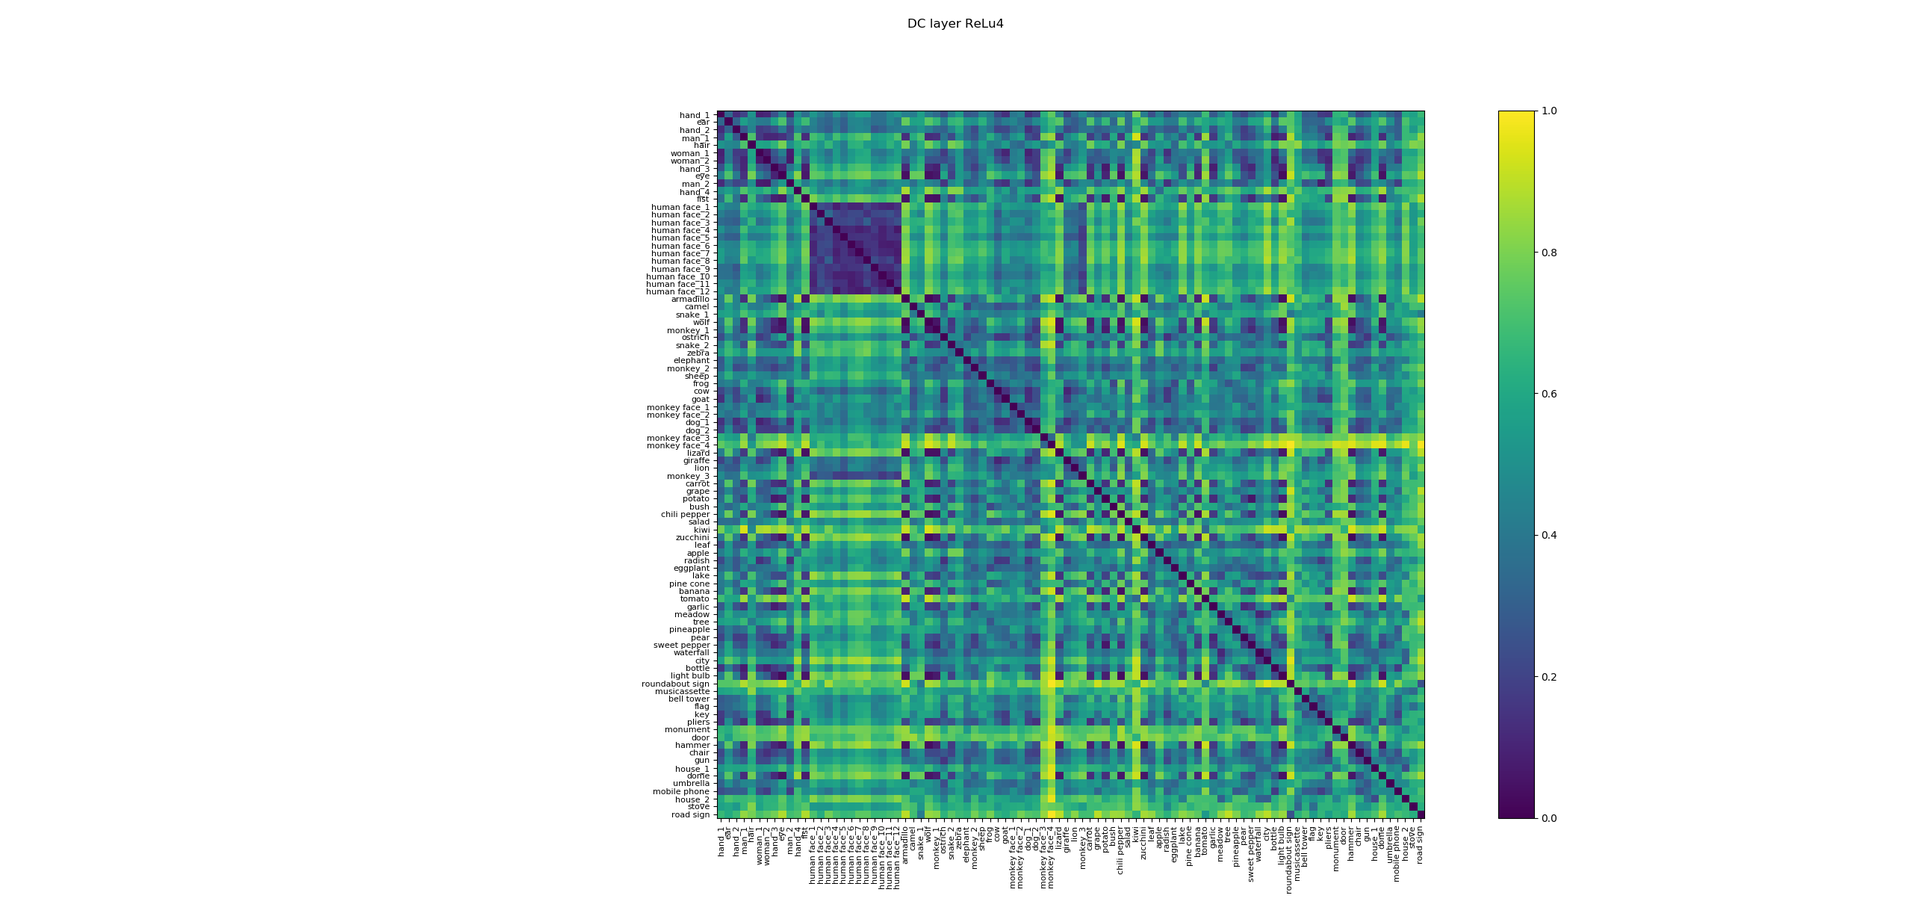
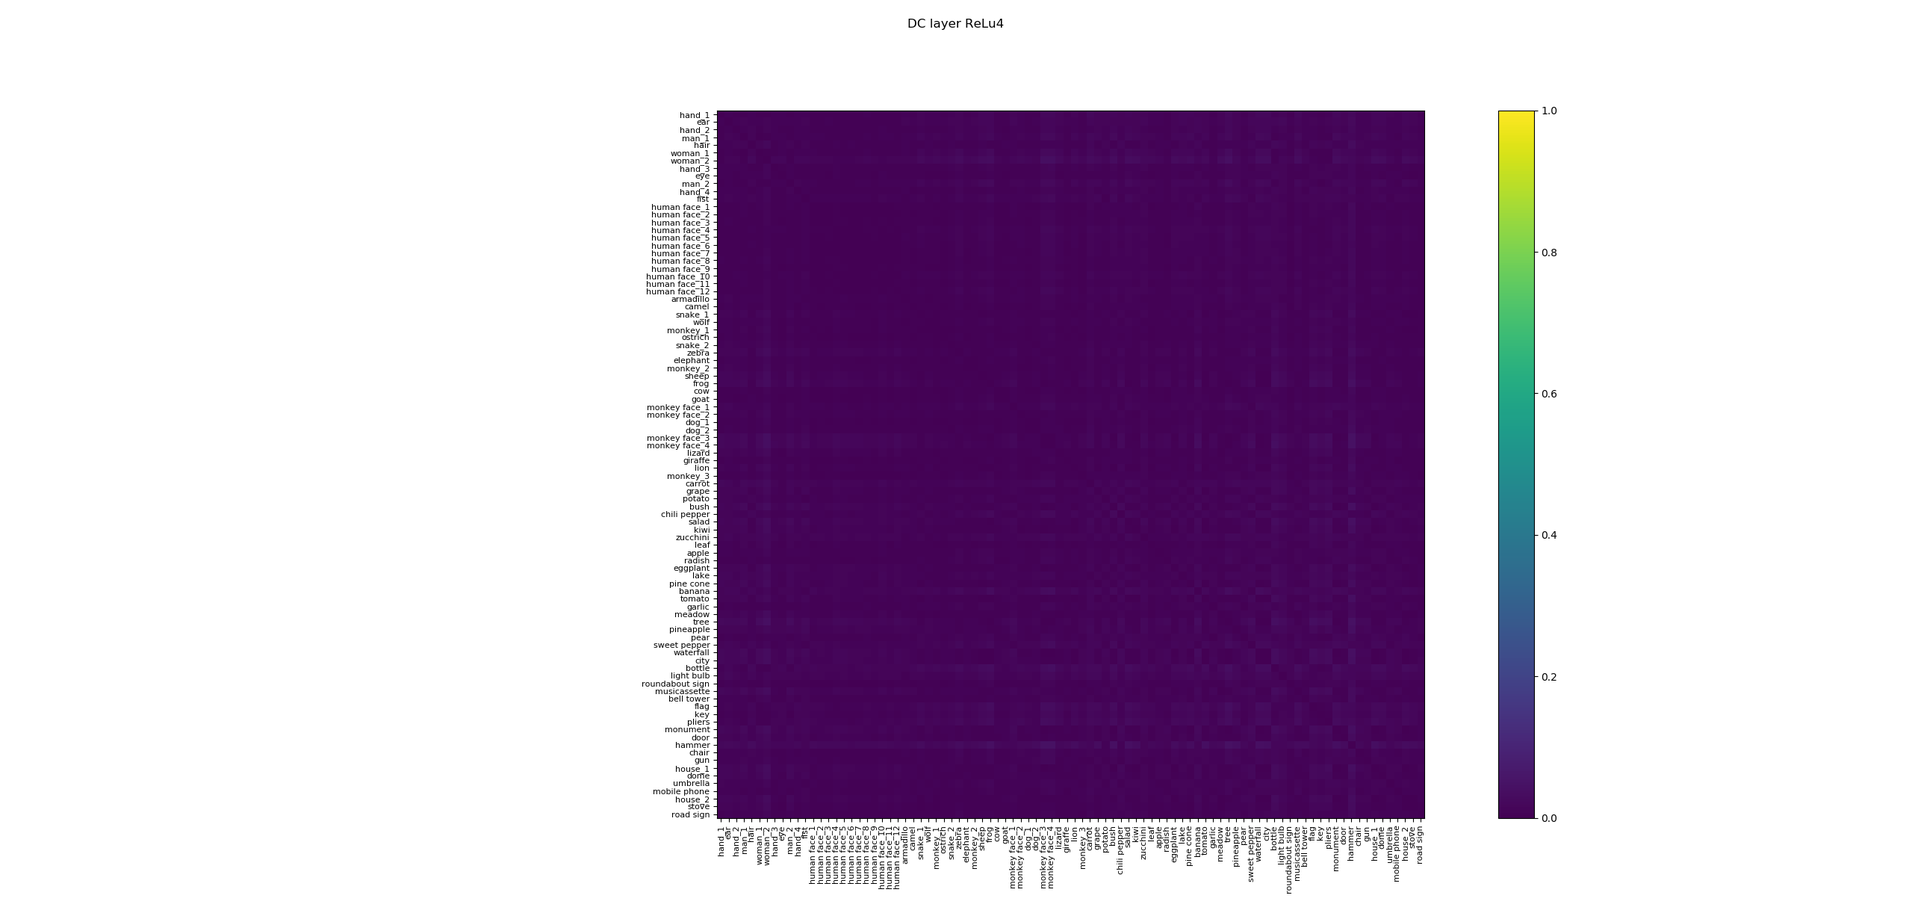
add untrained test and updated niko's synsets dict and the w2v function

Changed region(s): [[0.375, 0.1236, 0.75, 0.8959]]

diff --git a/chicy118_img_dictionaries.py b/chicy118_img_dictionaries.py
@@ -1,6 +1,8 @@
 import pickle
 import os
-from gensim.models import KeyedVectors
+import nltk
+nltk.download('wordnet')
+from nltk.corpus import wordnet as wn
 
 ## define images names and synsets
 img_names_cichy118 = {'001':'orange','002':'bench','003':'remote','004':'car','005':'stove','006':'man','007':'table','008':'apple','009':'wagon','010':'dog','011':'fox','012':'bus','013':'train','014':'ipod',
@@ -30,25 +32,46 @@ img_synsets_cichy118 = {'001':'orange.n.01','002':'bench.n.01','003':'remote_con
                 '107':'bottle.n.01','108':'pan.n.01','109':'weight.n.02','110':'ball.n.01','111':'sweet_pepper.n.02','112':'corkscrew.n.01','113':'tennis_ball.n.01','114':'mouse.n.04','115':'mug.n.04',
                 '116':'keyboard.n.01','117':'can_opener.n.01','118':'fan.n.01'}
 
+img_w2v_cichy118 = {'001':'orange','002':'bench','003':'remote','004':'car','005':'stove','006':'man','007':'table','008':'apple','009':'wagon','010':'dog','011':'fox','012':'bus','013':'train','014':'ipod',
+                '015':'pizza','016':'bird','017':'horse','018':'laptop','019':'bear','020':'basketball ball','021':'piano','022':'guitar','023':'baseball ball','024':'seal','025':'chair','026':'orangutan','027':'bowl',
+                '028':'tiger','029':'moped','030':'tie','031':'printer','032':'lion','033':'neil','034':'drum','035':'bow','036':'fig','037':'butterfly','038':'lamp','039':'banana','040':'sofa',
+                '041':'lemon','042':'hoover','043':'hammer','044':'sunglasses','045':'bike','046':'rabbit','047':'beaker','048':'elephant','049':'microwave','050':'volleyball ball','051':'strawberry',
+                '052':'sheep','053':'frog','054':'washing machine','055':'fridge','056':'turtle','057':'ax','058':'helmet','059':'camel','060':'lipstick','061':'airplane','062':'dishwasher','063':'burger',
+                '064':'backpack','065':'purse','066':'hamster','067':'microphone','068':'mushroom','069':'cow','070':'violin','071':'orca','072':'cucumber','073':'thermometer','074':'pineapple','075':'harp',
+                '076':'squirrel','077':'notebook','078':'trumpet','079':'plastic bag','080':'jug','081':'snail','082':'toaster','083':'banjo','084':'screwdriver','085':'snowmobile','086':'pig',
+                '087':'pomegranate','088':'accordion','089':'racket','090':'bagel','091':'trombone','092':'syringe','093':'fish','094':'hair_dryer','095':'starfish','096':'hotdog','097':'ladybug',
+                '098':'aircraft carrier','099':'jellyfish','100':'coffee maker','101':'television','102':'pretzel','103':'artichoke','104':'golf ball','105':'alarm clock','106':'traffic light',
+                '107':'bottle','108':'pan','109':'weights','110':'football ball','111':'sweet pepper','112':'corkscrew','113':'tennis ball','114':'computer mouse','115':'mug','116':'keyboard',
+                '117':'can opener','118':'fan'}
 
 
 img_names_niko92 = {'01':'hand_1','02':'ear','03':'hand_2','04':'man_1','05':'hair','06':'woman_1','07':'woman_2','08':'hand_3','09':'eye','10':'man_2','11':'hand_4','12':'fist','13':'human face_1','14':'human face_2',
                 '15':'human face_3','16':'human face_4','17':'human face_5','18':'human face_6','19':'human face_7','20':'human face_8','21':'human face_9','22':'human face_10','23':'human face_11','24':'human face_12',
                 '25':'armadillo','26':'camel','27':'snake_1','28':'wolf','29':'monkey_1','30':'ostrich','31':'snake_2','32':'zebra','33':'elephant','34':'monkey_2','35':'sheep','36':'frog','37':'cow',
                 '38':'goat','39':'monkey face_1','40':'monkey face_2','41':'dog_1','42':'dog_2','43':'monkey face_3','44':'monkey face_4','45':'lizard','46':'giraffe','47':'lion','48':'monkey_3','49':'carrot',
-                '50':'grape','51':'potato','52':'bush','53':'chili pepper','54':'salad','55':'kiwi','56':'zucchini','57':'leaf','58':'apple','59':'radish','60':'eggplant','61':'lake','62':'pine cone',
-                '63':'banana','64':'tomato','65':'garlic','66':'meadow','67':'tree','68':'pineapple','69':'pear','70':'sweet pepper','71':'waterfall','72':'city','73':'bottle','74':'light bulb',
-                '75':'roundabout sign','76':'musicassette','77':'bell tower','78':'flag','79':'key','80':'pliers','81':'monument','82':'door','83':'hammer','84':'chair','85':'gun','86':'house_1',
+                '50':'grape','51':'potato','52':'bush','53':'jalapeno','54':'lettuce','55':'kiwi','56':'zucchini','57':'leaf','58':'apple','59':'radish','60':'eggplant','61':'lake','62':'pine cone',
+                '63':'banana','64':'tomato','65':'garlic','66':'hayfield','67':'tree','68':'pineapple','69':'pear','70':'sweet pepper','71':'waterfall','72':'city','73':'bottle','74':'light bulb',
+                '75':'roundabout sign','76':'musicassette','77':'belfry','78':'flag','79':'key','80':'pliers','81':'monument','82':'door','83':'hammer','84':'chair','85':'gun','86':'house_1',
                 '87':'dome','88':'umbrella','89':'mobile phone','90':'house_2','91':'stove','92':'road sign'}
 
-img_synsets_niko92 = {'001':'hand','002':'ear','003':'hand','004':'man','005':'hair','006':'woman','007':'woman','008':'hand','009':'eye','010':'man','011':'hand','012':'fist','013':'human face','014':'human face',
-                '015':'human face','016':'human face','017':'human face','018':'human face','019':'human face','020':'human face','021':'human face','022':'human face','023':'human face','024':'human face',
-                '025':'armadillo','026':'camel','027':'snake','028':'wolf','029':'monkey','030':'ostrich','031':'snake','032':'zebra','033':'elephant','034':'monkey','035':'sheep','036':'frog','037':'cow',
-                '038':'goat','039':'monkey face','040':'monkey face','041':'dog','042':'dog','043':'monkey face','044':'monkey face','045':'lizard','046':'giraffe','047':'lion','048':'monkey','049':'carrot',
-                '050':'grape','051':'potato','052':'bush','053':'chili pepper','054':'salad','055':'kiwi','056':'zucchini','057':'leaf','058':'apple','059':'radish','060':'eggplant','061':'lake','062':'pine cone',
-                '063':'banana','064':'tomato','065':'garlic','066':'meadow','067':'tree','068':'pineapple','069':'pear','070':'sweet pepper','071':'waterfall','072':'city','073':'bottle','074':'light bulb',
-                '075':'roundabout sign','076':'musicassette','077':'bell tower','078':'flag','079':'key','080':'pliers','081':'monument','082':'door','083':'hammer','084':'chair','085':'gun','086':'house',
-                '087':'dome','088':'umbrella','089':'mobile phone','090':'house','091':'stove','092':'road sign'}
+img_synsets_niko92 = {'01':'hand.n.01','02':'ear.n.03','03':'hand.n.01','04':'man.n.01','05':'hair.n.01','06':'woman.n.01','07':'woman.n.01','08':'hand.n.01','09':'eye.n.01','10':'man.n.01','11':'hand.n.01',
+                '12':'fist.n.01','13':'face.n.01','14':'face.n.01','15':'face.n.01','16':'face.n.01','17':'face.n.01','18':'face.n.01','19':'face.n.01','20':'face.n.01','21':'face.n.01','22':'face.n.01',
+                '23':'face.n.01','24':'face.n.01','25':'armadillo.n.01','26':'camel.n.01','27':'snake.n.01','28':'wolf.n.01','29':'monkey.n.01','30':'ostrich.n.02','31':'snake.n.01','32':'zebra.n.01',
+                '33':'elephant.n.01','34':'monkey.n.01','35':'sheep.n.01','36':'frog.n.01','37':'cow.n.01','38':'goat.n.01','39':'monkey.n.01','40':'monkey.n.01','41':'dog.n.01','42':'dog.n.01','43':'monkey.n.01',
+                '44':'monkey.n.01','45':'lizard.n.01','46':'giraffe.n.01','47':'lion.n.01','48':'monkey.n.01','49':'carrot.n.01','50':'grape.n.01','51':'potato.n.01','52':'shrub.n.01','53':'jalapeno.n.02',
+                '54':'lettuce.n.02','55':'chinese_gooseberry.n.01','56':'zucchini.n.01','57':'leaf.n.01','58':'apple.n.01','59':'radish.n.01','60':'eggplant.n.01','61':'lake.n.01','62':'pinecone.n.01',
+                '63':'banana.n.02','64':'tomato.n.01','65':'garlic.n.01','66':'hayfield.n.01','67':'tree.n.01','68':'pineapple.n.01','69':'pear.n.01','70':'sweet_pepper.n.02','71':'waterfall.n.01','72':'city.n.01',
+                '73':'bottle.n.01','74':'lightbulb.n.01','75':'signpost.n.01','76':'cassette.n.01','77':'belfry.n.01','78':'flag.n.01','79':'key.n.01','80':'pliers.n.01','81':'memorial.n.03','82':'door.n.01',
+                '83':'hammer.n.02','84':'chair.n.01','85':'gun.n.01','86':'house.n.01','87':'dome.n.01','88':'umbrella.n.01','89':'cellphone.n.01','90':'house.n.01','91':'stove.n.01','92':'signpost.n.01'}
+
+img_w2v_niko92 = {'01':'hand','02':'ear','03':'hand','04':'man','05':'hair','06':'woman','07':'woman','08':'hand','09':'eye','10':'man','11':'hand','12':'fist','13':'human face','14':'human face',
+                '15':'human face','16':'human face','17':'human face','18':'human face','19':'human face','20':'human face','21':'human face','22':'human face','23':'human face','24':'human face',
+                '25':'armadillo','26':'camel','27':'snake','28':'wolf','29':'monkey','30':'ostrich','31':'snake','32':'zebra','33':'elephant','34':'monkey','35':'sheep','36':'frog','37':'cow',
+                '38':'goat','39':'monkey face','40':'monkey face','41':'dog','42':'dog','43':'monkey face','44':'monkey face','45':'lizard','46':'giraffe','47':'lion','48':'monkey','49':'carrot',
+                '50':'grape','51':'potato','52':'bush','53':'jalapeno','54':'lettuce','55':'kiwi','56':'zucchini','57':'leaf','58':'apple','59':'radish','60':'eggplant','61':'lake','62':'pine cone',
+                '63':'banana','64':'tomato','65':'garlic','66':'hayfield','67':'tree','68':'pineapple','69':'pear','70':'sweet pepper','71':'waterfall','72':'city','73':'bottle','74':'light bulb',
+                '75':'roundabout sign','76':'musicassette','77':'belfry','78':'flag','79':'key','80':'pliers','81':'monument','82':'door','83':'hammer','84':'chair','85':'gun','86':'house',
+                '87':'dome','88':'umbrella','89':'mobile phone','90':'house','91':'stove','92':'road sign'}
 
 
 
@@ -56,8 +79,12 @@ with open('/home/CUSACKLAB/annatruzzi/cichy2016/cichy118_img_names.pickle', 'wb'
     pickle.dump(img_names_cichy118, handle)
 with open('/home/CUSACKLAB/annatruzzi/cichy2016/cichy118_img_synsets.pickle', 'wb') as handle:
     pickle.dump(img_synsets_cichy118, handle)
+with open('/home/CUSACKLAB/annatruzzi/cichy2016/cichy118_img_w2v.pickle', 'wb') as handle:
+    pickle.dump(img_w2v_cichy118, handle)
 
 with open('/home/CUSACKLAB/annatruzzi/cichy2016/niko92_img_names.pickle', 'wb') as handle:
     pickle.dump(img_names_niko92, handle)
 with open('/home/CUSACKLAB/annatruzzi/cichy2016/niko92_img_synsets.pickle', 'wb') as handle:
     pickle.dump(img_synsets_niko92, handle)
+with open('/home/CUSACKLAB/annatruzzi/cichy2016/niko92_img_w2v.pickle', 'wb') as handle:
+    pickle.dump(img_w2v_niko92, handle)

diff --git a/cichy118_evaluate_dc_fmri.py b/cichy118_evaluate_dc_fmri.py
@@ -19,8 +19,7 @@ import hdf5storage
 from scipy import stats
 from scipy.spatial.distance import squareform
 import collections
-from gensim.models import KeyedVectors
-
+import re
 
 ## load activations dictionary 
 def load_dict(path):
@@ -41,7 +40,7 @@ def loadmat(matfile):
     else:
         return {name: np.transpose(f.get(name)) for name in f.keys()}
 
-def lch_order(keys,ordered_names_dict,syn_dict):
+def lch_order(keys,ordered_names_dict,syn_dict,w2v_dict):
     ## get LCH distance for the images from the respective synsets and order them by hierarchical clustering + get respective (comprehensible) labels 
     labels_dict = [label.split('/')[-1] for label in keys]
     synsets_list = []
@@ -86,18 +85,19 @@ def lch_order(keys,ordered_names_dict,syn_dict):
     return orderedNames
 
 
-def presentation_order(keys,ordered_names_dict,syn_dict):
+def presentation_order(keys,ordered_names_dict,syn_dict,w2v_dict):
     orderedNames = []
     for item in sorted(ordered_names_dict.items()):
         orderedNames.append(item[1])
     return orderedNames
 
 
-def w2v_order(keys,ordered_names_dict,syn_dict):
+def w2v_order(keys,ordered_names_dict,syn_dict,w2v_dict):
     orderedNames = []
     model = KeyedVectors.load_word2vec_format('/home/CUSACKLAB/annatruzzi/GoogleNews-vectors-negative300.bin', binary=True, limit=500000)
     w2v = []
-    for value in ordered_names_dict.values():
+    for key in ordered_names_dict.keys():
+        value = w2v_dict[key]
         if len(value.split(' ')) == 1:
             w2v.append(model[value])
         else:
@@ -116,7 +116,7 @@ def w2v_order(keys,ordered_names_dict,syn_dict):
         leaf_font_size=9,
         distance_sort='ascending',
         show_leaf_counts=True)
-    #plt.show()
+    plt.show()
     orderedNames = den['ivl']
 
     return orderedNames
@@ -163,15 +163,25 @@ def rdm_plot(rdm, vmin, vmax, labels, main, outname):
     plt.close(fig)
 
 
-def main(layers,act,img_names,img_synsets,fmri_path, network_used, comparison_with, order_method):
-    act = load_dict(act)
-    img_names = load_dict(img_names)
+def main(layers, network_used, comparison_with, order_method,training):
+    act_pth = '/home/CUSACKLAB/annatruzzi/cichy2016/' + comparison_with + '_activations_'+ training + '.pickle'
+    img_names_pth = '/home/CUSACKLAB/annatruzzi/cichy2016/' + comparison_with + '_img_names.pickle'
+    img_synsets_pth = '/home/CUSACKLAB/annatruzzi/cichy2016/' + comparison_with + '_img_synsets.pickle'
+    img_w2v_pth = '/home/CUSACKLAB/annatruzzi/cichy2016/' + comparison_with + '_img_w2v.pickle'
+
+    number = (re.findall('\d+', comparison_with))
+    fmri_pth = '/home/CUSACKLAB/annatruzzi/cichy2016/algonautsChallenge2019/Training_Data/'+ number[0]+'_Image_Set/target_fmri.mat'
+
+    act = load_dict(act_pth)
+    img_names = load_dict(img_names_pth)
     img_names = reorder_od(img_names, sorted(img_names.keys()))
-    img_synsets = load_dict(img_synsets)
+    img_synsets = load_dict(img_synsets_pth)
     img_synsets = reorder_od(img_synsets, sorted(img_synsets.keys()))
+    img_w2v = load_dict(img_w2v_pth)
+    img_w2v = reorder_od(img_w2v, sorted(img_w2v.keys()))
 
     #############   get list of lch ordered activation keys starting from labels_img and img_names dict
-    order_function = order_method + '_order(act.keys(),img_names,img_synsets)'
+    order_function = order_method + '_order(act.keys(),img_names,img_synsets,img_w2v)'
     orderedNames = eval(order_function)
     orderedKeys = []
     for name in orderedNames:
@@ -199,7 +209,7 @@ def main(layers,act,img_names,img_synsets,fmri_path, network_used, comparison_wi
 
 
     ###### load fmri rdms and re-order them by lch similarity
-    fmri_mat = loadmat(fmri_path)
+    fmri_mat = loadmat(fmri_pth)
     EVC = np.mean(fmri_mat['EVC_RDMs'],axis = 0)
     IT = np.mean(fmri_mat['IT_RDMs'], axis = 0)
 
@@ -213,14 +223,17 @@ def main(layers,act,img_names,img_synsets,fmri_path, network_used, comparison_wi
         cmb_mri_IT = zip(cmb_mri, IT_tovector)
         cmb_orderedNames = list(combinations(orderedNames,2))
         for combination in cmb_orderedNames:
+            print combination
             for item_EVC in cmb_mri_EVC:
                 if (item_EVC[0][0] == combination[0] and item_EVC[0][1] == combination[1]) or (item_EVC[0][0] == combination[1] and item_EVC[0][1] == combination[0]):
                     EVC_ordered.append(item_EVC[1])
+                    print item_EVC
             for item_IT in cmb_mri_IT:
                 if (item_EVC[0][0] == combination[0] and item_EVC[0][1] == combination[1]) or (item_EVC[0][0] == combination[1] and item_EVC[0][1] == combination[0]):
                     IT_ordered.append(item_IT[1])
-        EVC = squareform(np.asarray(EVC))
-        IT = squareform(np.asarray(IT))
+                    print item_IT
+        EVC = squareform(np.asarray(EVC),force='tovector', checks=False)
+        IT = squareform(np.asarray(IT),force='tovector', checks=False)
     
     fmri_rdm_dict = {'EVC_RDMs' : EVC, 'IT_RDMs' : IT}
 
@@ -261,18 +274,7 @@ def main(layers,act,img_names,img_synsets,fmri_path, network_used, comparison_wi
 
 
 if __name__ == '__main__':
+
     layers_dc = ['ReLu1', 'ReLu2', 'ReLu3', 'ReLu4', 'ReLu5']
-
-    act_dc_cichy118 = '/home/CUSACKLAB/annatruzzi/cichy2016/cichy118_activations.pickle'
-    img_names_cichy118 = '/home/CUSACKLAB/annatruzzi/cichy2016/cichy118_img_names.pickle'
-    img_synsets_cichy118 = '/home/CUSACKLAB/annatruzzi/cichy2016/cichy118_img_synsets.pickle'
-    fmri_cichy118 = '/home/CUSACKLAB/annatruzzi/cichy2016/algonautsChallenge2019/Training_Data/118_Image_Set/target_fmri.mat'
-
-    act_dc_niko92 = '/home/CUSACKLAB/annatruzzi/cichy2016/niko92_activations.pickle'
-    img_names_niko92 = '/home/CUSACKLAB/annatruzzi/cichy2016/niko92_img_names.pickle'   
-    img_synsets_niko92 = '/home/CUSACKLAB/annatruzzi/cichy2016/niko92_img_synsets.pickle'  
-    fmri_niko92 = '/home/CUSACKLAB/annatruzzi/cichy2016/algonautsChallenge2019/Training_Data/92_Image_Set/target_fmri.mat'
-
-
-    main(layers_dc,act_dc_niko92,img_names_niko92,img_synsets_niko92,fmri_niko92, 'DC' ,'niko92', 'presentation')
+    main(layers_dc, 'DC' ,'niko92', 'w2v', 'pretrained')
 

diff --git a/dc_act_for_images_untrained.py b/dc_act_for_images_untrained.py
@@ -1,0 +1,134 @@
+import argparse
+import os
+import scipy.io
+import pickle
+import time
+from collections import OrderedDict
+
+import faiss
+import numpy as np
+from sklearn.metrics.cluster import normalized_mutual_info_score
+import torch
+import torch.nn as nn
+import torch.nn.parallel
+import torch.backends.cudnn as cudnn
+import torch.optim
+import torch.utils.data
+import torchvision.transforms as transforms
+import torchvision.datasets as datasets
+import datetime
+
+import clustering
+import models
+from util import AverageMeter, Logger, UnifLabelSampler
+
+parser = argparse.ArgumentParser(description='PyTorch Implementation of DeepCluster')
+
+parser.add_argument('data', metavar='DIR', help='path to dataset')
+parser.add_argument('--arch', '-a', type=str, metavar='ARCH',
+                    choices=['alexnet', 'vgg16'], default='alexnet',
+                    help='CNN architecture (default: alexnet)')
+parser.add_argument('--sobel', action='store_true', help='Sobel filtering')
+parser.add_argument('--clustering', type=str, choices=['Kmeans', 'PIC'],
+                    default='Kmeans', help='clustering algorithm (default: Kmeans)')
+parser.add_argument('--nmb_cluster', '--k', type=int, default=10000,
+                    help='number of cluster for k-means (default: 10000)')
+parser.add_argument('--lr', default=0.05, type=float,
+                    help='learning rate (default: 0.05)')
+parser.add_argument('--wd', default=-5, type=float,
+                    help='weight decay pow (default: -5)')
+parser.add_argument('--reassign', type=float, default=1.,
+                    help="""how many epochs of training between two consecutive
+                    reassignments of clusters (default: 1)""")
+parser.add_argument('--workers', default=4, type=int,
+                    help='number of data loading workers (default: 4)')
+parser.add_argument('--epochs', type=int, default=200,
+                    help='number of total epochs to run (default: 200)')
+parser.add_argument('--start_epoch', default=0, type=int,
+                    help='manual epoch number (useful on restarts) (default: 0)')
+parser.add_argument('--batch', default=256, type=int,
+                    help='mini-batch size (default: 256)')
+parser.add_argument('--momentum', default=0.9, type=float, help='momentum (default: 0.9)')
+parser.add_argument('--resume', default='', type=str, metavar='PATH',
+                    help='path to checkpoint (default: None)')
+parser.add_argument('--checkpoints', type=int, default=25000,
+                    help='how many iterations between two checkpoints (default: 25000)')
+parser.add_argument('--seed', type=int, default=31, help='random seed (default: 31)')
+parser.add_argument('--exp', type=str, default='', help='path to exp folder')
+parser.add_argument('--verbose', action='store_true', help='chatty')
+
+
+class ImageFolderWithPaths(datasets.ImageFolder):
+    """Custom dataset that includes image file paths. Extends
+    torchvision.datasets.ImageFolder
+    """
+
+    # override the __getitem__ method. this is the method that dataloader calls
+    def __getitem__(self, index):
+        # this is what ImageFolder normally returns 
+        original_tuple = super(ImageFolderWithPaths, self).__getitem__(index)
+        # the image file path
+        path = self.imgs[index][0]
+        # make a new tuple that includes original and the path
+        tuple_with_path = (original_tuple + (path,))
+        return tuple_with_path
+
+
+
+def compute_features(dataloader, model, N):
+    if args.verbose:
+        print('Compute features')
+    batch_time = AverageMeter()
+    end = time.time()
+    model.eval()
+    act = {}
+
+    def _store_feats(layer, inp, output):
+        """An ugly but effective way of accessing intermediate model features
+        """
+        _model_feats.append(output.cpu().numpy())
+
+    for m in model.features.modules():
+        if isinstance(m, nn.ReLU):
+            m.register_forward_hook(_store_feats)
+
+    for i, input_tensor in enumerate(dataloader):
+        with torch.no_grad():
+            input_var, label = input_tensor[0].cuda(),input_tensor[2]
+            _model_feats = []
+            aux = model(input_var).data.cpu().numpy()
+            act[label[0]] = _model_feats
+
+    return act
+
+
+
+def get_activations(offset):
+    normalize = transforms.Normalize(mean=[0.485, 0.456, 0.406],
+                                    std=[0.229, 0.224, 0.225])
+    tra = [transforms.Resize(256),
+        transforms.CenterCrop(224),
+        transforms.ToTensor(),
+        normalize]
+#        dataset = datasets.ImageFolder(offset, transform=transforms.Compose(tra))
+    dataset = ImageFolderWithPaths(offset, transform=transforms.Compose(tra))
+    dataloader = torch.utils.data.DataLoader(dataset,
+                                            batch_size=1,
+                                            num_workers=args.workers,
+                                            pin_memory=True,
+                                            shuffle = False)
+    features = compute_features(dataloader, model, len(dataset))
+    return features
+
+
+if __name__ == '__main__':
+    global args
+    args = parser.parse_args()
+    model = models.alexnet(sobel=True, bn=True, out=10000) 
+    model.cuda()
+    image_pth = '/home/CUSACKLAB/annatruzzi/cichy2016/algonautsChallenge2019/Training_Data/118_Image_Set/118images' 
+    act = get_activations(image_pth)
+
+    with open('/home/CUSACKLAB/annatruzzi/cichy2016/cichy118_activations_untrained.pickle', 'wb') as handle:
+        pickle.dump(act, handle)
+

diff --git a/dc_act_for_images_pretrained.py b/dc_act_for_images_pretrained.py
@@ -134,9 +134,9 @@ if __name__ == '__main__':
     model = models.alexnet(sobel=True, bn=True, out=10000) 
     model.load_state_dict(checkpoint_new)
     model.cuda()
-    image_pth = '/home/CUSACKLAB/annatruzzi/cichy2016/algonautsChallenge2019/Training_Data/92_Image_Set/92images' 
+    image_pth = '/home/CUSACKLAB/annatruzzi/cichy2016/algonautsChallenge2019/Training_Data/118_Image_Set/118images' 
     act = get_activations(image_pth)
 
-    with open('/home/CUSACKLAB/annatruzzi/cichy2016/niko92_activations.pickle', 'wb') as handle:
+    with open('/home/CUSACKLAB/annatruzzi/cichy2016/cichy118_activations_pretrained.pickle', 'wb') as handle:
         pickle.dump(act, handle)
 
